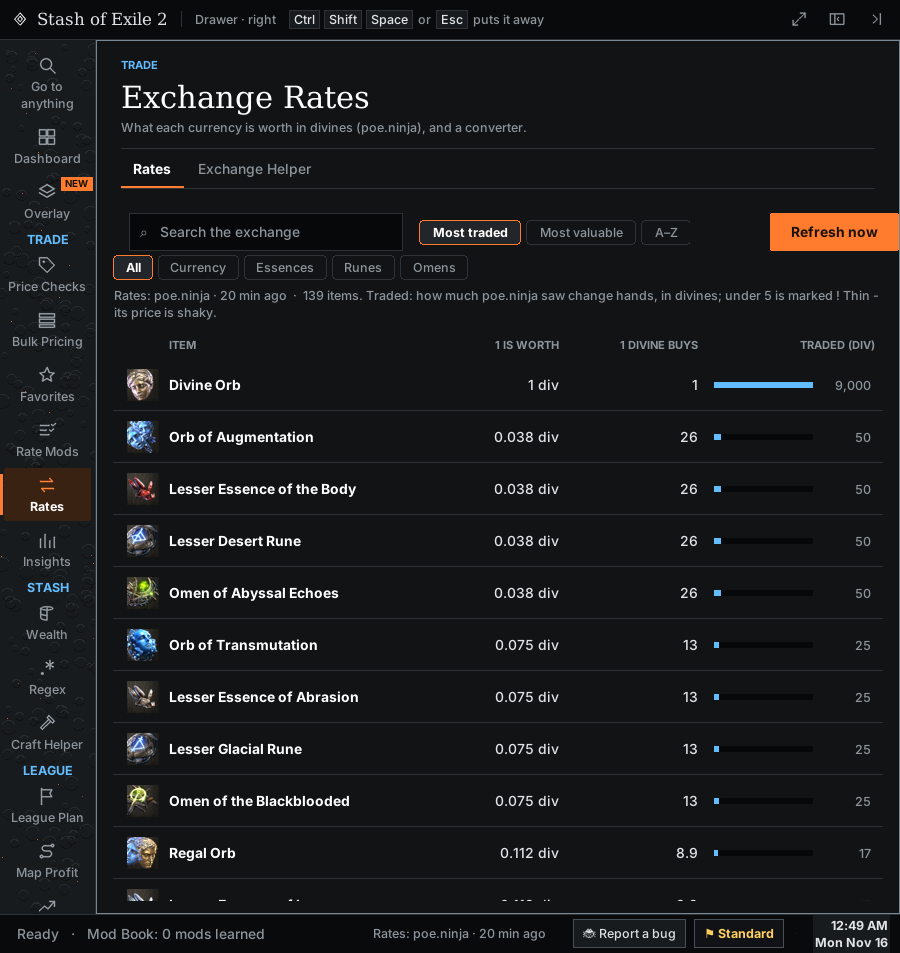
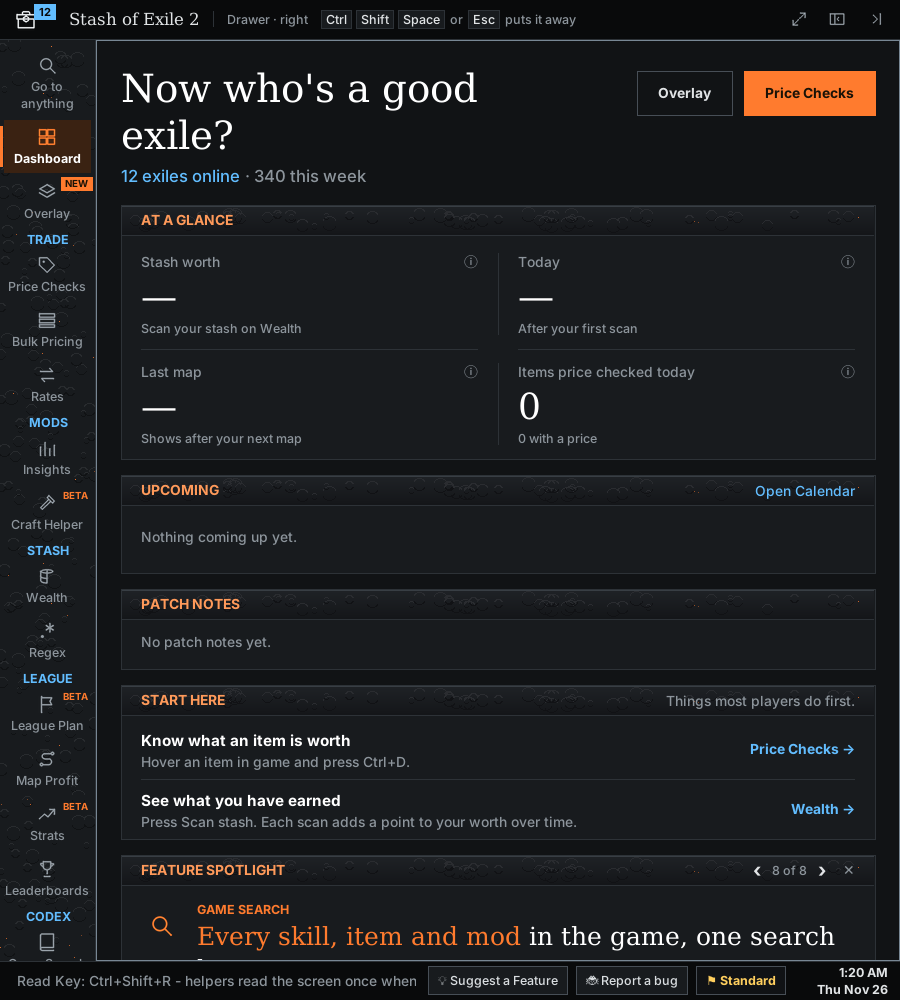
README: new Drawer and Overlay screenshots, the overlay over a real game screen with sample data
Claude-Session: https://claude.ai/code/session_01TESTmzP9QPDqCbiiJ8gi3X

diff --git a/README.md b/README.md
@@ -14,9 +14,9 @@ StashOfExile2 is a free, open-source Windows and Linux companion for **Path of E
 
 | The Drawer, for one monitor | The Overlay over the game |
 |---|---|
-| ![The Drawer over the game's side, on Exchange Rates](docs/screenshots/drawer.png) | ![The overlay: the Bar, Notes, a price check card and Music Controls](docs/screenshots/overlay.png) |
+| ![The Drawer over the game's side, on the Dashboard](docs/screenshots/drawer.png) | ![The overlay in town: the bar, Notes, a price check card and Music Controls](docs/screenshots/overlay.png) |
 
-*Screenshots use sample data and made-up listings.*
+*Screenshots use sample data and made-up listings over a real game screen.*
 
 ## New in 3.3
 
